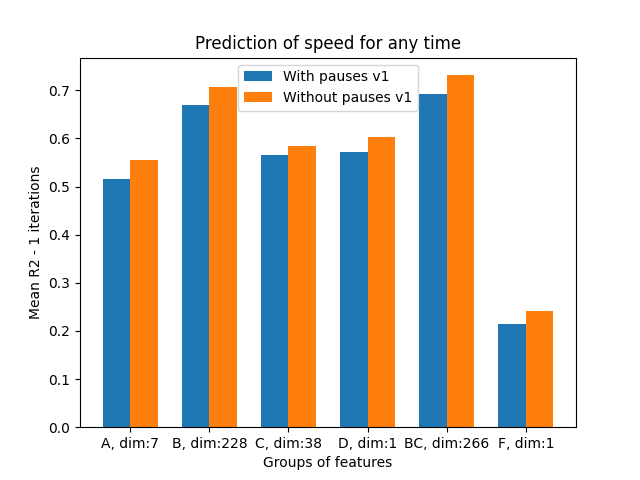
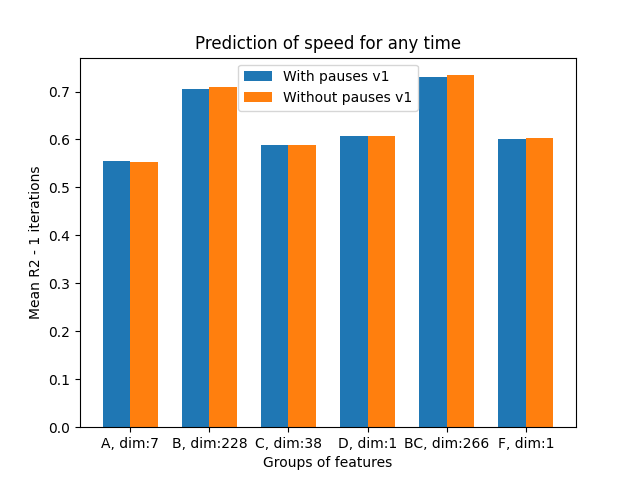
Termino experimento de velocidad instantanea

diff --git a/src/processing/speed_experiments/run_speed_experiments.py b/src/processing/speed_experiments/run_speed_experiments.py
@@ -59,6 +59,8 @@ charsiu_pred_aligment_test['duration_s'] = charsiu_pred_aligment_test['stop'] - 
 charsiu_pred_aligment_test['phone_rate'] = 1/charsiu_pred_aligment_test['duration_s']
 charsiu_pred_aligment_test['phone_rate'] = charsiu_pred_aligment_test['phone_rate'].where(charsiu_pred_aligment_test['utterance'] != '[SIL]', 0)
 
+
+
 #%% ======================== FUNCTIONS ========================
 
 
@@ -216,9 +218,13 @@ def speed_df(sample_id, train=True, step_size=5, window_size=20, with_pause=Fals
     sample_features = sample_features.reset_index(drop=True)
     sample_charsiu = sample_charsiu.reset_index(drop=True)
     
+    # SCALLING
+    sample_charsiu['start'] = sample_charsiu['start']*16000
+    sample_charsiu['stop'] = sample_charsiu['stop']*16000
+
     x_wp, y_wp = m1(sample_features, step_size=step_y, window_size=window_y, with_pau=True)    
     x_wop, y_wop = m1(sample_features, step_size=step_y, window_size=window_y, with_pau=False)
-    x_charsiu, y_charsiu = m1(sample_charsiu, step_size=step_y/16000, window_size=window_y/16000, with_pau=False)
+    x_charsiu, y_charsiu = m1(sample_charsiu, step_size=step_y, window_size=window_y, with_pau=False)
 
     df = pd.DataFrame()
     if len(x_wp) == len(y_wp) == len(x_wop) == len(y_wop) == len(sections) == len(x_charsiu) == len(y_charsiu):
@@ -274,7 +280,7 @@ def generate_data(sample_ids, train=True, step_size=5, window_size=20, with_paus
 
 #%%
 # Generate the data (if it is not already generated)
-#generate_data(SAMPLE_IDs_TRAIN, train=True, step_size=5, window_size=20, with_pause=True)
+generate_data(SAMPLE_IDs_TRAIN, train=True, step_size=5, window_size=20, with_pause=True)
 
 # %% Open the data set
 #data_set_with_out_pau = pd.read_csv('../tesis_speechRate/src/processing/speed_experiments/data/data_set_train_with_out_pau.csv')
@@ -369,8 +375,8 @@ B_ABS_C = B_abs + C
 F = ['y_charsiu']
 
 # %%
-features = [A,B,C,D,BC, F]
-N=1
+features = [A,B,C,D,BC, F, B_ABS_C]
+N=10
 y_train = df_TRAIN['y_wp']
 y_val = df_VAL['y_wp']
 mean_score_features_wpau, mean_MSE_features_wpau = ut.r2_experiment(df_TRAIN, df_VAL, y_train, y_val, features, N=N)
@@ -387,16 +393,19 @@ fig, ax = plt.subplots()
 rects1 = ax.bar(x - width/2, mean_score_features_wpau, width, label='With pauses v1')
 rects2 = ax.bar(x + width/2, mean_score_features_wopau, width, label='Without pauses v1')
 
-plt.xticks(np.arange(len(features)), ['A, dim:' + str(len(A)),'B, dim:'+ str(len(B)),'C, dim:'+ str(len(C)), 'D, dim:'+ str(len(D)), 'BC, dim:'+ str(len(BC)), 'F, dim:'+ str(len(F))]
-           , rotation=0)
+plt.xticks(np.arange(len(features)), ['A, dim:' + str(len(A)),'B, dim:'+ str(len(B)),'C, dim:'+ str(len(C)), 'D, dim:'+ str(len(D)), 'BC, dim:'+ str(len(BC)),
+                                       'F, dim:'+ str(len(F)), 'B_ABS_C, dim:'+ str(len(B_ABS_C))]
+                                       , rotation=30)
 
 # Add in this plot the name of each feature
 plt.title('Prediction of speed for any time')
 plt.xlabel('Groups of features')
 plt.ylabel('Mean R2 - '+ str(N) + ' iterations')
+plt.ylim(0,1)
 plt.legend()
-plt.savefig('a_b_c_d_barplot.png')
+plt.savefig('barplot_inst_speed.png')
 plt.show()
+
 # %%
 
 # HI

diff --git a/src/pre_processing/metrics/metrics.py b/src/pre_processing/metrics/metrics.py
@@ -31,7 +31,8 @@ def m1(phones, step_size=10, window_size=100, with_pau = False):
     how_many_partialy = 0
     how_many_out = 0
 
-    silence = ['h#', 'pau', 'epi']
+    silence = ['h#', '[SIL]']
+    pause   = ['pau', 'epi']
     for i in range(len(steps)):
         left = max(0, steps[i]-window_size/2)
         right = min(T-1,steps[i]+window_size/2)
@@ -40,8 +41,9 @@ def m1(phones, step_size=10, window_size=100, with_pau = False):
 
 
             onset = start[phone_j]
+            is_pau = phones['utterance'][phone_j] in pause
             is_silence = phones['utterance'][phone_j] in silence
-            if (not is_silence) or (with_pau):
+            if (not is_silence) and (with_pau or not is_pau):
 
     #                is_completely_in_window = (start[phone_i] > left) and (stop[phone_i] < right)
     #                is_completely_out_of_window = (start[phone_i]> right) or (stop[phone_i] < left)
